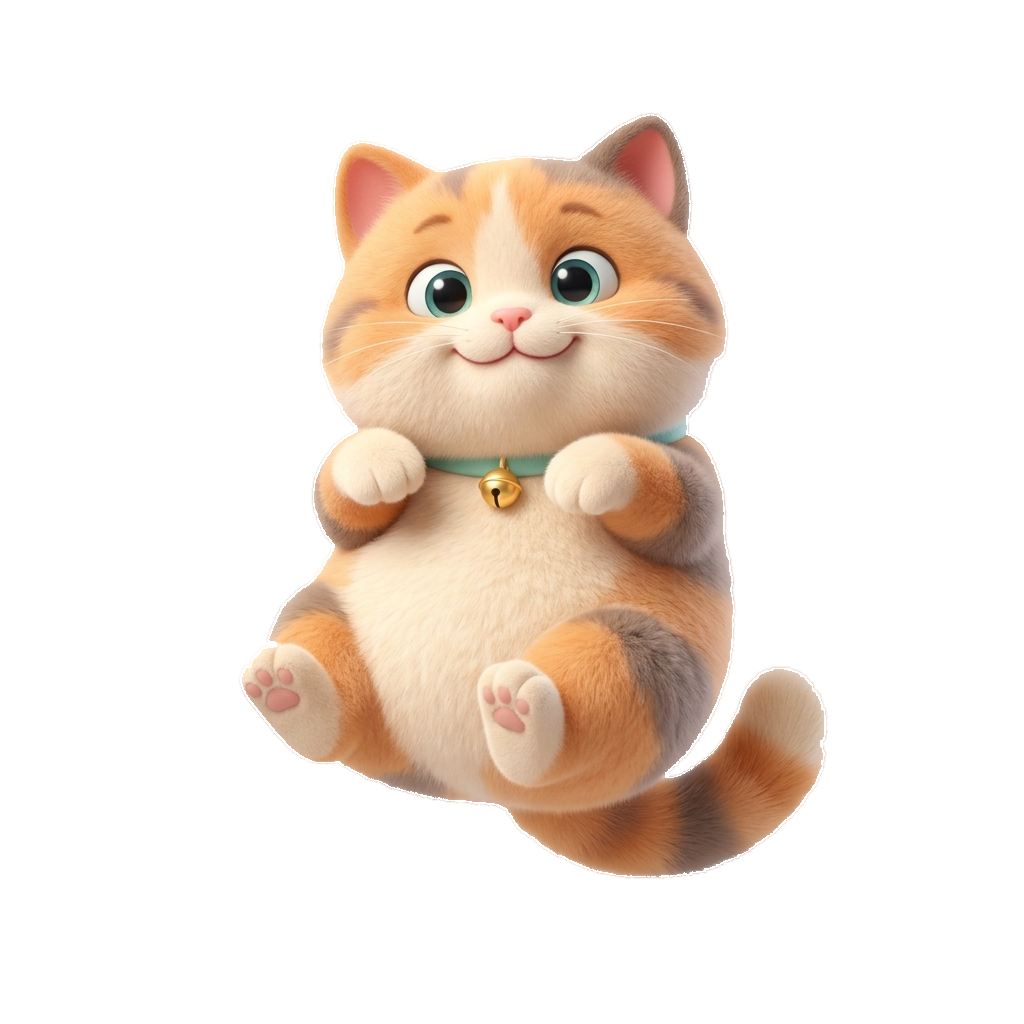
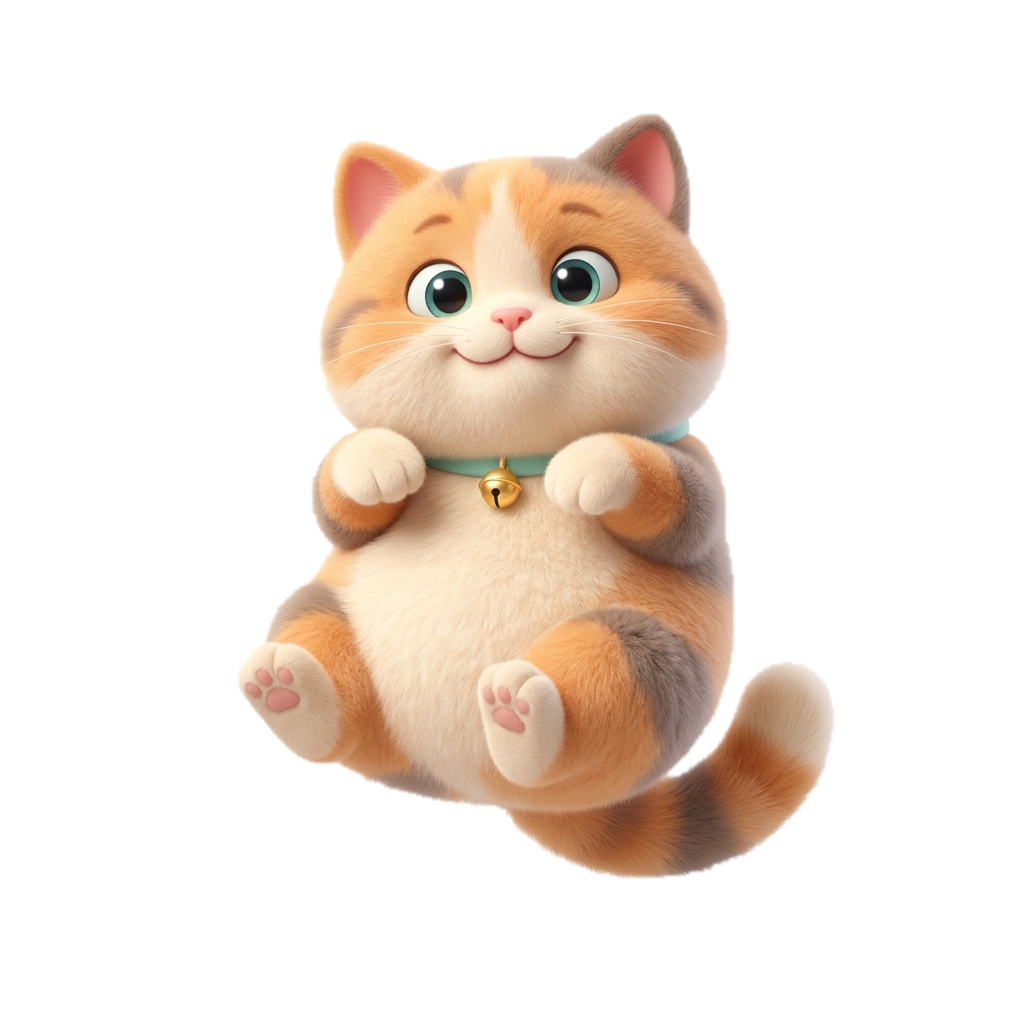
fix(assets): perfect character segmentation preserving white fur and bellies, bump to v2.5.13

diff --git a/src/index.html b/src/index.html
@@ -141,7 +141,7 @@
 
             <div class="settings-section settings-info-section">
               <div style="display:flex; justify-content:space-between; align-items:center; flex-wrap:wrap; gap:6px;">
-                <span style="font-size:12px; color:var(--muted);">앱 버전: <strong id="settings-app-version">v2.5.12</strong></span>
+                <span style="font-size:12px; color:var(--muted);">앱 버전: <strong id="settings-app-version">v2.5.13</strong></span>
                 <div style="display:flex; align-items:center; gap:6px;">
                   <span id="update-check-status" style="font-size:11px; color:#5bbf8d;">최신 버전 적용됨</span>
                   <button id="manual-check-update-btn" type="button" style="font-size:11px; padding:3px 8px; cursor:pointer; border-radius:4px; border:1px solid var(--panel-border); background:#fff; color:var(--blue-dark);">업데이트 확인</button>

diff --git a/src/main.js b/src/main.js
@@ -2,7 +2,7 @@ const { app, BrowserWindow, Menu, Tray, ipcMain, screen, dialog, globalShortcut,
 const { autoUpdater } = require('electron-updater');
 const { UPDATE_CHECK_INTERVAL_MS, serializeUpdateResult } = require('./update-utils');
 
-app.setAppUserModelId('캐릭터 Todo V2.5.12');
+app.setAppUserModelId('캐릭터 Todo V2.5.13');
 
 autoUpdater.autoDownload = false;
 autoUpdater.allowDowngrade = false;
